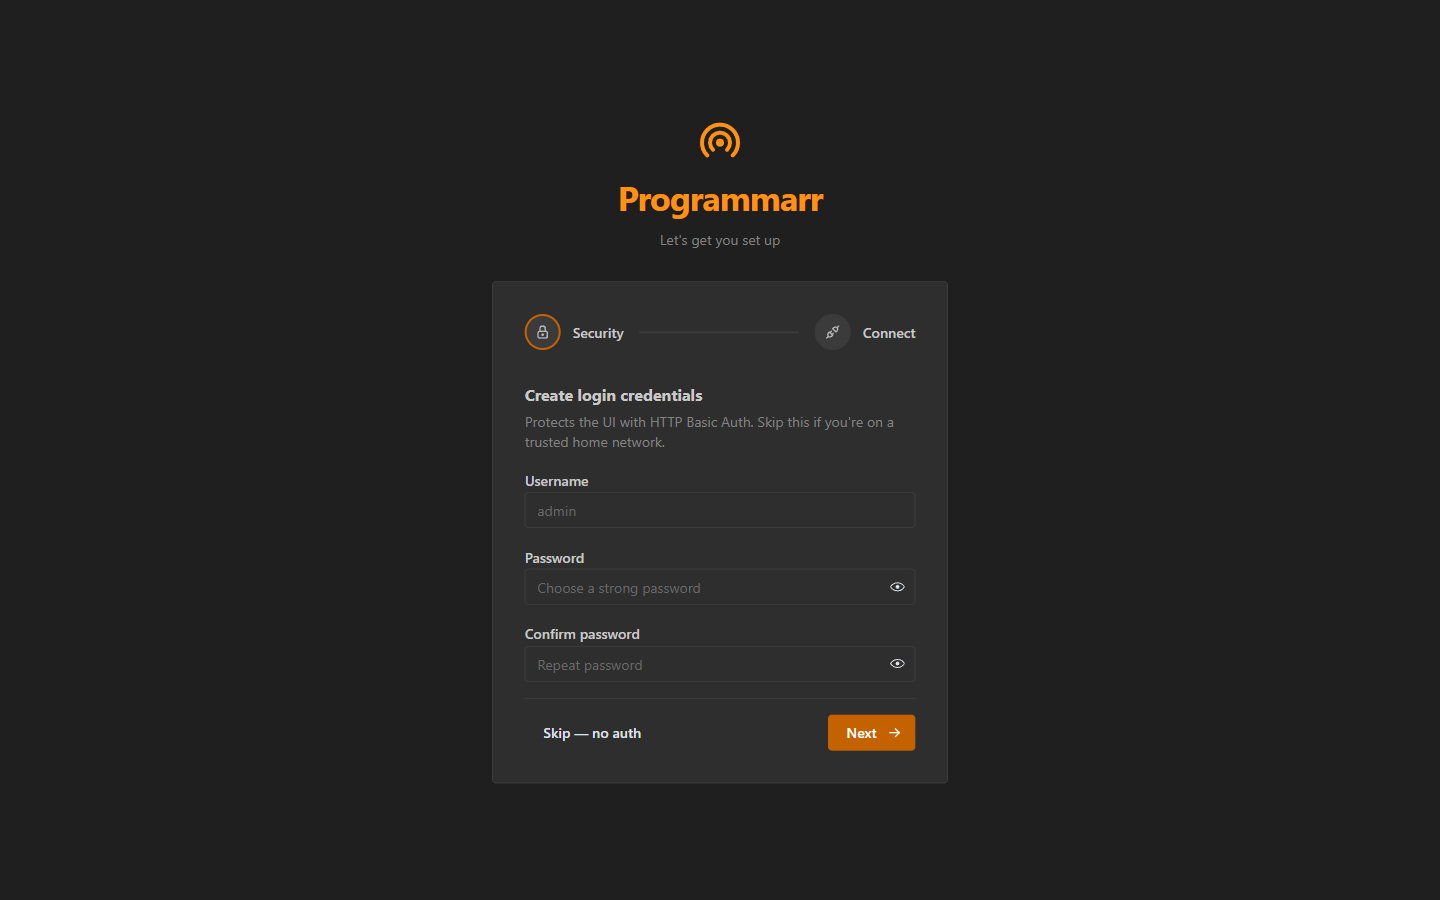
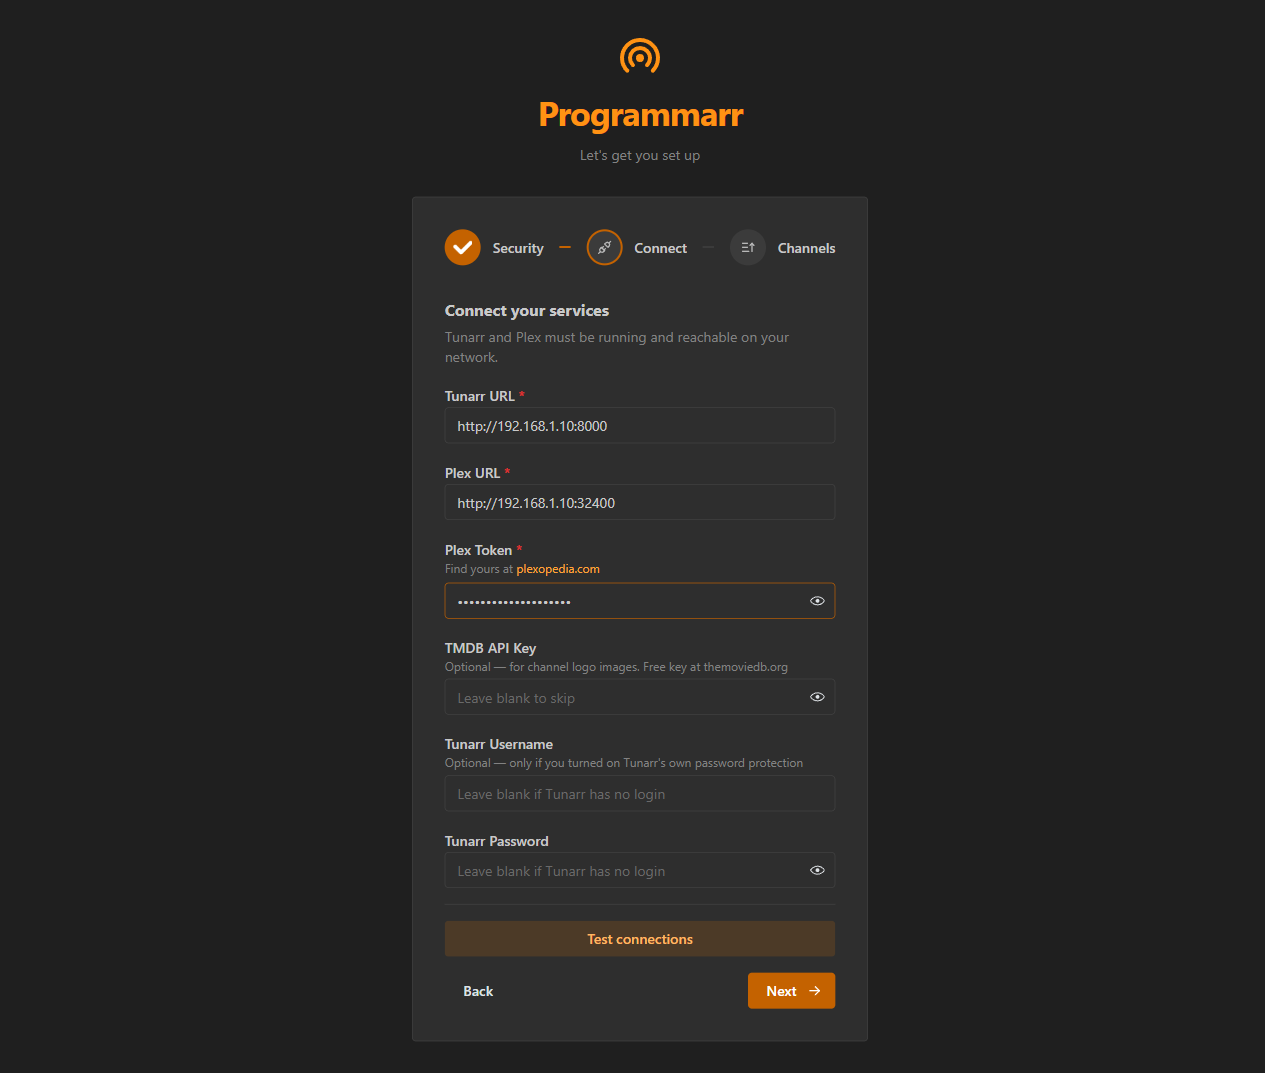
docs: refresh the onboarding screenshot for v0.8.0 and fix a wrong caption
The onboarding shot dated from June 5 and its caption claimed "credentials and
connections in two steps" — it's a three-step wizard, so the README was stating
something factually untrue on the page strangers land on first.

Captured from the PUBLISHED v0.8.0 image running against an empty data directory
(so the wizard actually renders), driven with Playwright. The new shot shows the
Connect step as it exists now: the three-step stepper, the optional Tunarr
username/password fields, and the Test connections button — the two things this
release added to first-run setup, neither of which appeared in the old image.

Deliberately filled with the placeholder example addresses (192.168.1.10) and a
masked token rather than pointing it at the real servers, so no personal IPs or
credentials end up in a public README.

Caption now describes what the wizard actually does, and the alt text spells out
the fields for anyone reading with a screen reader.

diff --git a/README.md b/README.md
@@ -160,8 +160,8 @@ services:
   </tr>
   <tr>
     <td width="50%" valign="top">
-      <img src="docs/onboarding.png" alt="First-run onboarding wizard" width="100%" />
-      <p align="center"><em>First-run setup wizard — credentials and connections in two steps</em></p>
+      <img src="docs/onboarding.png" alt="First-run onboarding wizard, Connect step — Tunarr and Plex URLs, Plex token, optional TMDB key and optional Tunarr credentials, with a Test connections button" width="100%" />
+      <p align="center"><em>First-run setup wizard — three steps, and it tests your Tunarr and Plex connections before saving</em></p>
     </td>
     <td width="50%" valign="top">
       <img src="docs/settings.png" alt="Settings page with Tunarr URL, Plex URL, TMDB key, and auth fields" width="100%" />
